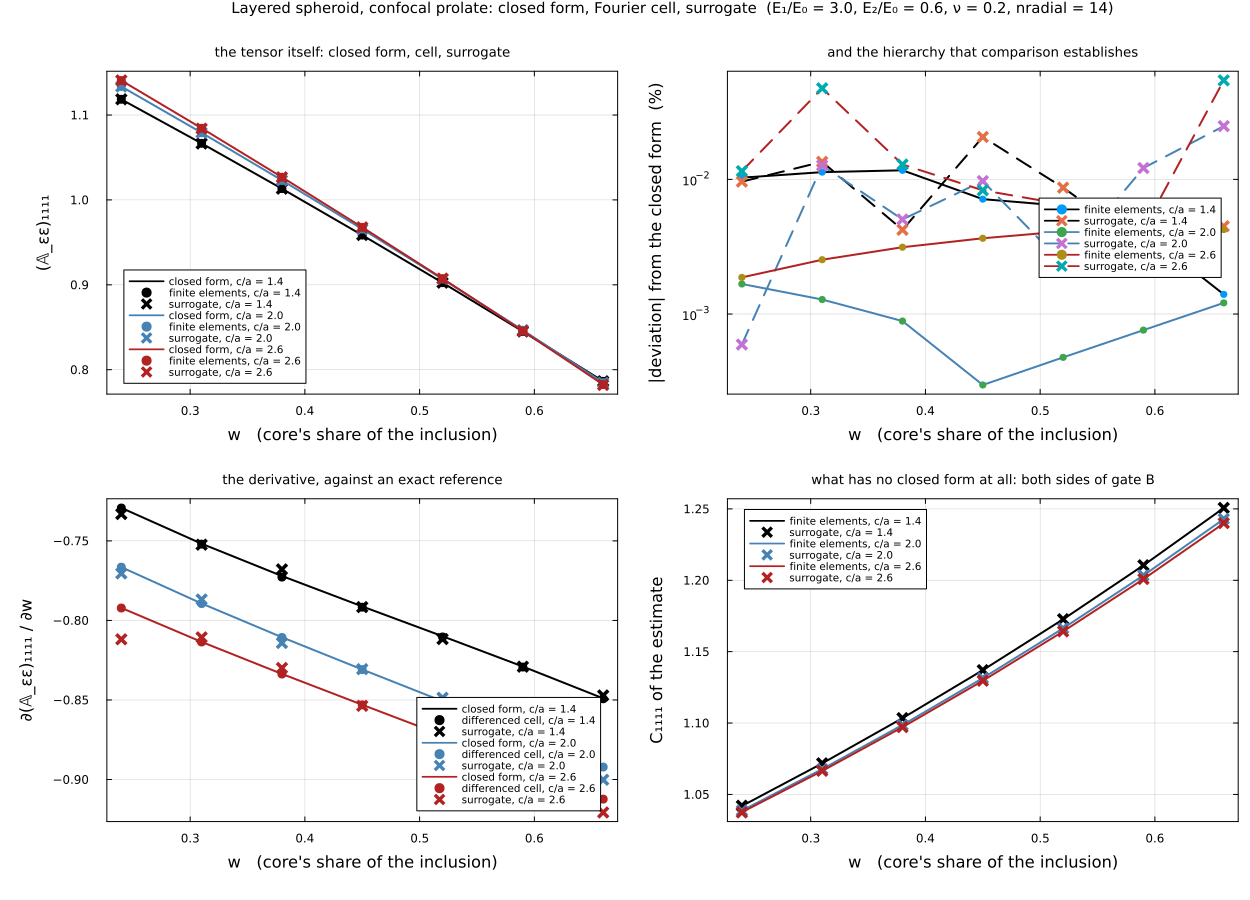
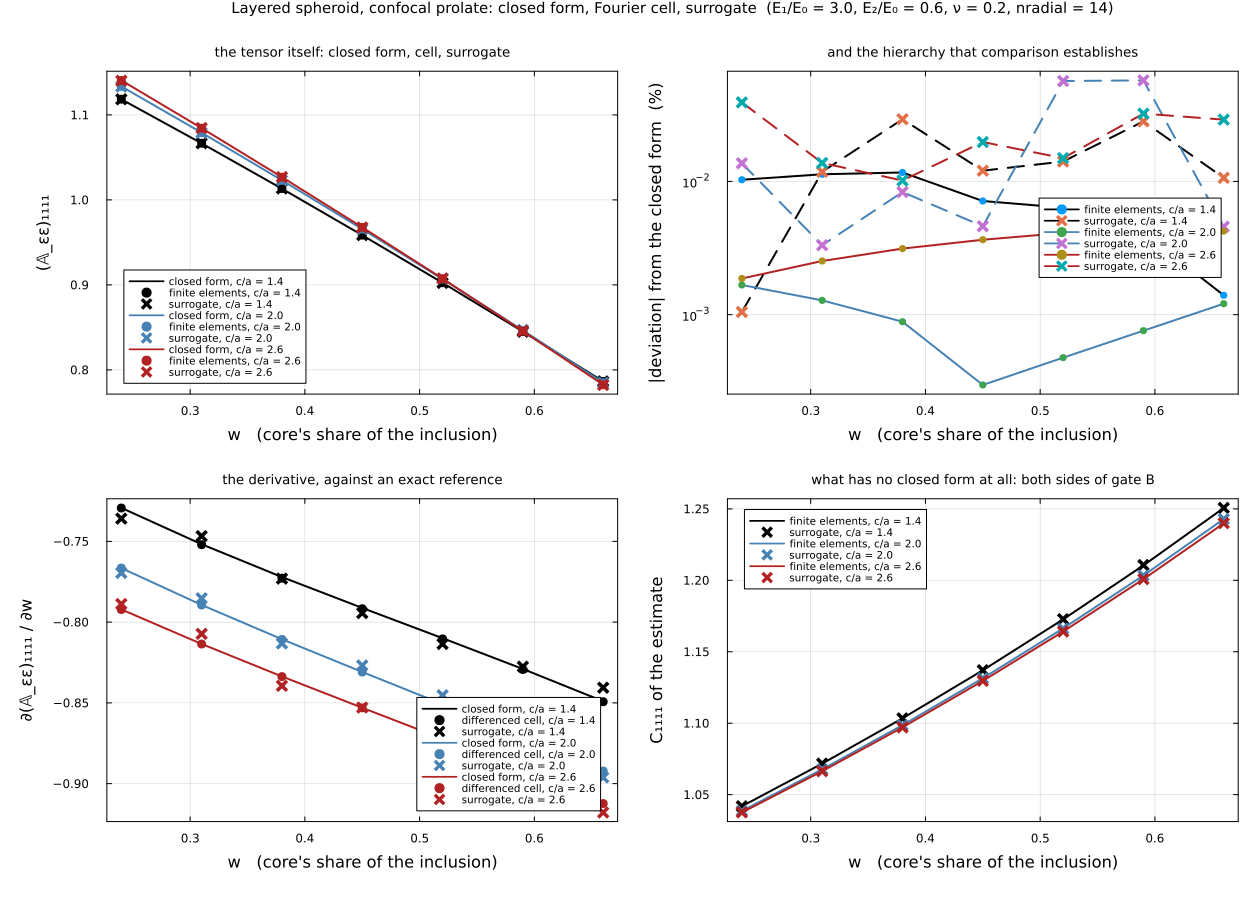
New data for NN layered spheroid

diff --git a/CHANGELOG.md b/CHANGELOG.md
@@ -1,48 +1,50 @@
 # Changelog
 
-## v0.14.2 — how far more samples go, and the metric that nearly hid it
+## v0.14.2 — where the sample count stops paying, and the mesh that produced it
 
 0.14.1 shipped the layered-spheroid surrogates on 1200 finite-element solves and
-recorded that the sample count was the lever that worked, each factor of 1.7 in
-samples buying a factor of three in the block error. This release asks how far
-that goes, and the answer depends entirely on which error you look at.
+recorded that the sample count was the lever that worked, each factor of 1.7
+buying a factor of three in the held-out block error. This release finds where
+that ends, by measuring two further steps instead of extrapolating from one.
 
-### The held-out block error saturates. The tail does not.
+### It ends, and three points say so rather than one
 
-| training solves | block rms, `𝔸_εε` | exponent `α` in `rms ∝ N^-α` |
-|--:|--:|--:|
-| 400 | `7.3e-3` | — |
-| 700 | `2.4e-3` | 1.95 |
-| 1200 | `7.8e-4` | 2.10 |
-| 2000 | `4.8e-4` | **0.95** |
+| training solves | block rms, `𝔸_εε` | gain | exponent `α` in `rms ∝ N^-α` |
+|--:|--:|--:|--:|
+| 400 | `7.3e-3` | — | — |
+| 700 | `2.4e-3` | 2.98× | 1.95 |
+| 1200 | `7.8e-4` | 3.11× | 2.10 |
+| 2000 | `4.8e-4` | 1.63× | 0.95 |
+| 2800 | `4.0e-4` | 1.22× | 0.59 |
 
-On that measure the superlinear regime ends: `α` had been stable near 2, which
-predicted `2.8e-4` at 2000 solves, and the measurement is `4.8e-4`. Taken alone
-it says more samples have stopped paying.
+The exponent falls monotonically, `2.10 → 0.95 → 0.59`. The stress side follows,
+`5.5e-4 → 3.3e-4 → 2.8e-4`. The shipped pair is retrained on 2800 and the models
+are better, but only marginally: **beyond about 2000 solves more samples no
+longer buy anything reliable.**
 
-Taken alone it is **wrong**, and the same trap caught the anchored specification
-in 0.14.1 from the other side: a block error over 100 Halton points is not
-accuracy over a dense grid. Judged against the closed form on the sweep the
-tutorial plots:
+### And the block error nearly told the opposite story
 
-| quantity, worst over the sweep | 1200 | 2000 |
-|:--|--:|--:|
-| `(𝔸_εε)₁₁₁₁` | 0.15 % | **0.05 %** |
-| `∂(𝔸_εε)₁₁₁₁/∂w` | 4.4 % | **2.5 %** |
-| the same value at the box face `c/a = 3` | 0.40 % | **0.06 %** |
-| the same derivative at that face | 10.9 % | **0.8 %** |
-| `C₁₁₁₁` of a Mori-Tanaka estimate | 0.06 % | **0.02 %** |
+At 2000 solves the held-out block error had already flattened — `α` fell from 2.1
+to 0.95 — which taken alone said the extra solves were wasted. Judged instead
+against the closed form on the dense sweep the tutorial plots, that same step
+bought between 3× and 13× *at the faces of the sampling box*, where a Halton set
+is sparsest and a fit's slope suffers first. The bulk of the box was by then near
+the **teacher's** own floor, the cell being exact only to about `1e-4` itself, so
+the block error saturated while the tail still fell.
 
-So the extra solves bought between 3× and **13.6×** exactly where the surrogate
-was weakest — at the **faces** of the sampling box, which is where a Halton set
-is sparsest and where the derivative of a fit suffers first. The bulk of the box
-is near the teacher's own floor, which is why the block rms saturates while the
-tail keeps falling. Read the block error for the fit and the dense sweep for the
-tail; neither substitutes for the other.
+From 2000 to 2800 the two metrics finally agree: the worst derivative over the
+sweep improved from 2.5 % to 1.0 %, the worst value went 0.05 % to 0.06 %, and at
+the box face the derivative went 0.8 % to 1.2 %. Those are maxima over
+twenty-one points — order statistics, and noisy — so the mixture is what
+saturation looks like, not a further gain and not a regression.
+
+The lesson generalizes and is the third instance of it in two releases: a block
+error over a hundred Halton points measures the bulk, a dense sweep measures the
+tail, and the tail is what limits what a surrogate is good for. Read both.
 
 **Refining the mesh remains the wrong lever, arithmetically.** The teacher
-reproduces the closed form to about `1e-4` while the fit sits at `4.8e-4`, so the
-fit still dominates by a factor of five: refining would buy a floor that is not
+reproduces the closed form to about `1e-4` while the fit sits at `4.0e-4`, so the
+fit still dominates by a factor of four: refining would buy a floor that is not
 being reached, while making each solve some 2.5× more expensive *and* discarding
 every label, the checkpoint key including the mesh.
 
@@ -56,8 +58,8 @@ from appeared nowhere.
 
 ### Added
 
-- Further finite-element labels, and `layered_spheroid_strain` /
-  `layered_spheroid_stress` retrained on them.
+- 1600 further finite-element labels, and `layered_spheroid_strain` /
+  `layered_spheroid_stress` retrained on 2800.
 - The training-mesh panel, and the sentence in the tutorial saying which panel
   is the real one.
 
@@ -69,7 +71,6 @@ from appeared nowhere.
   calls, while `powers_alpha_max`, which the hydration scripts do call, is
   unchanged. Older bounds are kept alongside the new one so the file resolves on
   either side of a registration.
-
 ## v0.14.1 — the surrogate for the layered spheroid, and the frame it exposed
 
 0.14.0 shipped the meshed layered spheroid and said its sensitivities would have

diff --git a/docs/src/manual/neural_inclusions.md b/docs/src/manual/neural_inclusions.md
@@ -243,8 +243,8 @@ the *distinct over equal* semi-axis ratio, so ``\omega > 1`` is prolate and
 | `axi_supershape_pore_elastic` | ``\mathbb A_{\varepsilon\varepsilon}``, `TensTI{4,·,6}` | `log_aspect`, `log_p`, `nu0` | same, and ``\nu_0 \in [0, 0.45]`` | 3→64→64→6 | 1400 / 400 | `6.3e-2` |
 | `excentered_sphere_strain` | ``\mathbb A_{\varepsilon\varepsilon}``, `TensTI{4,·,6}` | `eccentricity`, `core_fraction`, `log_mu_ratio_2` | ``\alpha \in [0, 0.8]``, ``w \in [0.2, 0.7]``, ``E_2/E_0 \in [0.1, 2]`` | 3→64→64→6 | 1200 / 300 | `6.5e-4` |
 | `excentered_sphere_stress` | ``\mathbb A_{\sigma\varepsilon}/2\mu_0``, `TensTI{4,·,6}` | the same three | the same box | 3→64→64→6 | 1200 / 300 | `6.8e-4` |
-| `layered_spheroid_strain` | ``\mathbb A_{\varepsilon\varepsilon}``, `TensTI{4,·,6}` | `log_aspect`, `core_fraction`, `log_mu_ratio_1`, `log_mu_ratio_2` | ``c/a \in [1.25, 3]``, ``w \in [0.2, 0.7]``, ``E_1/E_0`` and ``E_2/E_0 \in [0.5, 4]`` | 4→64→64→6 | 2000 / 100 | `1.9e-3` |
-| `layered_spheroid_stress` | ``\mathbb A_{\sigma\varepsilon}/2\mu_0``, `TensTI{4,·,6}` | the same four | the same box | 4→64→64→6 | 2000 / 100 | `1.1e-3` |
+| `layered_spheroid_strain` | ``\mathbb A_{\varepsilon\varepsilon}``, `TensTI{4,·,6}` | `log_aspect`, `core_fraction`, `log_mu_ratio_1`, `log_mu_ratio_2` | ``c/a \in [1.25, 3]``, ``w \in [0.2, 0.7]``, ``E_1/E_0`` and ``E_2/E_0 \in [0.5, 4]`` | 4→64→64→6 | 2800 / 100 | `1.6e-3` |
+| `layered_spheroid_stress` | ``\mathbb A_{\sigma\varepsilon}/2\mu_0``, `TensTI{4,·,6}` | the same four | the same box | 4→64→64→6 | 2800 / 100 | `1.0e-3` |
 
 "Worst error" is `worst_error(s.provenance)`: the largest error over the held-out
 set, in the ∞-norm of the component vector relative to its own magnitude. It is
@@ -290,8 +290,8 @@ cell solve returns both — so one solve fills a column of both label matrices.
 Two of the six components of ``\mathbb A_{\varepsilon\varepsilon}`` **change
 sign** over the layered spheroid's held-out set, so their relative columns
 measure nothing there and the block error is the number to read: rms
-``4.8\times10^{-4}``, median ``3.2\times10^{-4}``, p90 ``7.8\times10^{-4}``,
-against the ``1.9\times10^{-3}`` worst case in the table.
+``4.0\times10^{-4}``, median ``2.7\times10^{-4}``, p90 ``5.4\times10^{-4}``,
+against the ``1.6\times10^{-3}`` worst case in the table.
 
 **The sample count was measured, not guessed**, and it is the lever that worked:
 
@@ -301,11 +301,14 @@ against the ``1.9\times10^{-3}`` worst case in the table.
 | 700 | ``2.4\times10^{-3}`` | ``1.9\times10^{-3}`` |
 | 1200 | ``7.8\times10^{-4}`` | ``5.5\times10^{-4}`` |
 | 2000 | ``4.8\times10^{-4}`` | ``3.3\times10^{-4}`` |
+| 2800 | ``4.0\times10^{-4}`` | ``2.8\times10^{-4}`` |
 
 Up to 1200 solves every factor of 1.7 bought a factor of three — the signature of
-four features genuinely under-sampled. From 1200 to 2000 the block error gains
-only 1.6×, because the bulk of the box is by then close to the **teacher's** own
-floor: the cell reproduces the closed form to about ``10^{-4}``.
+four features genuinely under-sampled. Then it stops: the exponent of
+``\mathrm{rms} \propto N^{-\alpha}`` falls ``2.10 \to 0.95 \to 0.59``, because
+the bulk of the box reaches the **teacher's** own floor, the cell reproducing the
+closed form only to about ``10^{-4}`` itself. Past roughly 2000 solves more
+samples no longer buy anything reliable.
 
 **But the block error is not where the extra solves went**, and reading it alone
 would have said, wrongly, that they were wasted. Judged against the closed form
@@ -314,8 +317,12 @@ from 0.15 % to 0.05 %, the derivative from 4.4 % to 2.5 %, and — at the **face
 of the box, ``c/a = 3``, where a Halton set is sparsest and a fit's slope suffers
 first — the derivative from 10.9 % to **0.8 %**. Added samples land mostly in the
 regions the held-out set barely populates, which is exactly the tail that limits
-what the surrogate is good for. Read the block error for the fit and the dense
-sweep for the tail.
+what the surrogate is good for. From 2000 to 2800 the two measures finally agree
+that there is little left: the worst derivative over the sweep goes 2.5 % to
+1.0 %, the worst value 0.05 % to 0.06 %, the derivative at the box face 0.8 % to
+1.2 % — maxima over twenty-one points, so a mixture at this level is saturation
+rather than either progress or regression. Read the block error for the fit and
+the dense sweep for the tail; neither substitutes for the other.
 
 The pair is the confocal **prolate** slice at ``\nu_0 = 0.2``; the oblate box is
 a second run of the same script, and `guard = :error` refuses a query outside the

diff --git a/docs/src/tutorials/axi_layered_spheroid.md b/docs/src/tutorials/axi_layered_spheroid.md
@@ -343,7 +343,7 @@ The type raises instead. A trained network is the way through, and it is trained
 else — the analytic `LayeredSpheroid` supplies no stress side at all.
 
 ```
-julia --project=scripts/nn scripts/nn/train_layered_spheroid.jl 2000 100
+julia --project=scripts/nn scripts/nn/train_layered_spheroid.jl 2800 100
 ```
 
 Two surrogates come out, `layered_spheroid_strain` and
@@ -355,9 +355,9 @@ doubled several hours of finite elements for nothing.
 Those hours are also why the script **checkpoints every label as soon as it
 exists** and recomputes only what is missing on a restart. A Halton point
 depends on its index alone, never on the sample count, so the index is a stable
-name for a sample: the set grew 400 → 700 → 1200 → 2000 and each step reused
-everything already paid for, so 2000 samples cost 2000 solves rather than the
-4300 the four runs would otherwise have needed. That is also
+name for a sample: the set grew 400 → 700 → 1200 → 2000 → 2800 and each step reused
+everything already paid for, so 2800 samples cost 2800 solves rather than the
+7100 the five runs would otherwise have needed. That is also
 what made it affordable to try a different output specification on the *same*
 labels — a re-encoding rather than a re-solve. `MFH_NN_MAX_NEW` bounds the new
 solves one process performs per data set, which keeps hours of finite elements a
@@ -454,21 +454,21 @@ The closed form is the reference where it exists.
 | Quantity | vs the closed form, worst over the sweep |
 | --- | ---: |
 | `(𝔸_εε)₁₁₁₁`, finite elements | 0.01 % |
-| `(𝔸_εε)₁₁₁₁`, surrogate | 0.15 % |
+| `(𝔸_εε)₁₁₁₁`, surrogate | 0.06 % |
 | `∂(𝔸_εε)₁₁₁₁/∂w`, differenced cell | 0.087 % |
-| `∂(𝔸_εε)₁₁₁₁/∂w`, surrogate | 4.4 % |
+| `∂(𝔸_εε)₁₁₁₁/∂w`, surrogate | 1.0 % |
 
-At the box boundary `c/a = 3.0`, the same two quantities: value 0.40 %, derivative 10.9 %.
+At the box boundary `c/a = 3.0`, the same two quantities: value 0.10 %, derivative 1.2 %.
 
 | Quantity with no closed form | surrogate vs the cell, worst |
 | --- | ---: |
-| `C₁₁₁₁` of a Mori-Tanaka estimate, `f = 0.30` | 0.06 % |
+| `C₁₁₁₁` of a Mori-Tanaka estimate, `f = 0.30` | 0.02 % |
 
 | Cost of one evaluation | |
 | --- | ---: |
-| finite elements, cold | 2.947 s |
-| surrogate | 3.4 µs |
-| **speed-up** | **863238×** |
+| finite elements, cold | 4.717 s |
+| surrogate | 4.9 µs |
+| **speed-up** | **968308×** |
 
 ### Why the derivative is the hard part, and what actually moved it
 
@@ -487,14 +487,20 @@ assumed:
 
 Up to 1200 solves every factor of 1.7 bought close to a factor of three, on the
 value and on the derivative alike. Beyond that the **held-out block error**
-saturates — the bulk of the box reaches the teacher's own floor, the cell being
-exact only to about `1e-4` itself — while the **tail keeps falling**: from 1200
-to 2000 solves the worst derivative over the sweep went from 4.4 % to 2.5 %, and
-at the box face `c/a = 3` from 10.9 % to 0.8 %.
+saturates — its exponent falls `2.10 → 0.95 → 0.59` as the bulk of the box
+reaches the teacher's own floor, the cell being exact only to about `1e-4`
+itself — while the **tail keeps falling for a while longer**: from 1200 to 2000
+solves the worst derivative over the sweep went 4.4 % to 2.5 %, and at the box
+face `c/a = 3` from 10.9 % to 0.8 %.
 
-That split is worth carrying away, because reading either number alone gives the
-wrong answer. Added samples land where a Halton set is sparsest, which is the
-faces of the box — not the bulk the held-out set measures.
+From 2000 to 2800 both measures agree that little is left: 2.5 % to 1.0 % on the
+worst derivative, 0.05 % to 0.06 % on the worst value, 0.8 % to 1.2 % at the box
+face. Those are maxima over twenty-one points, so a mixture like that is what
+saturation looks like. **Past roughly 2000 solves, more samples stop paying.**
+
+The split is still worth carrying away, because between 1200 and 2000 reading
+either number alone gave the wrong answer: added samples land where a Halton set
+is sparsest — the faces of the box, not the bulk the held-out set measures.
 
 That last normalization is a decision, not a convenience. Of the 175 grid points,
 **70 have layers of equal modulus** — the inclusion is then homogeneous, `𝔸_εε`

diff --git a/src/NeuralInclusions/models/layered_spheroid_comparison.md b/src/NeuralInclusions/models/layered_spheroid_comparison.md
@@ -9,11 +9,11 @@ The closed form is the reference where it exists.
 | Quantity | vs the closed form, worst over the sweep |
 | --- | ---: |
 | `(𝔸_εε)₁₁₁₁`, finite elements | 0.01 % |
-| `(𝔸_εε)₁₁₁₁`, surrogate | 0.05 % |
+| `(𝔸_εε)₁₁₁₁`, surrogate | 0.06 % |
 | `∂(𝔸_εε)₁₁₁₁/∂w`, differenced cell | 0.087 % |
-| `∂(𝔸_εε)₁₁₁₁/∂w`, surrogate | 2.5 % |
+| `∂(𝔸_εε)₁₁₁₁/∂w`, surrogate | 1.0 % |
 
-At the box boundary `c/a = 3.0`, the same two quantities: value 0.06 %, derivative 0.8 %.
+At the box boundary `c/a = 3.0`, the same two quantities: value 0.10 %, derivative 1.2 %.
 
 | Quantity with no closed form | surrogate vs the cell, worst |
 | --- | ---: |
@@ -21,6 +21,6 @@ At the box boundary `c/a = 3.0`, the same two quantities: value 0.06 %, derivati
 
 | Cost of one evaluation | |
 | --- | ---: |
-| finite elements, cold | 5.793 s |
-| surrogate | 5.1 µs |
-| **speed-up** | **1127622×** |
+| finite elements, cold | 4.717 s |
+| surrogate | 4.9 µs |
+| **speed-up** | **968308×** |
